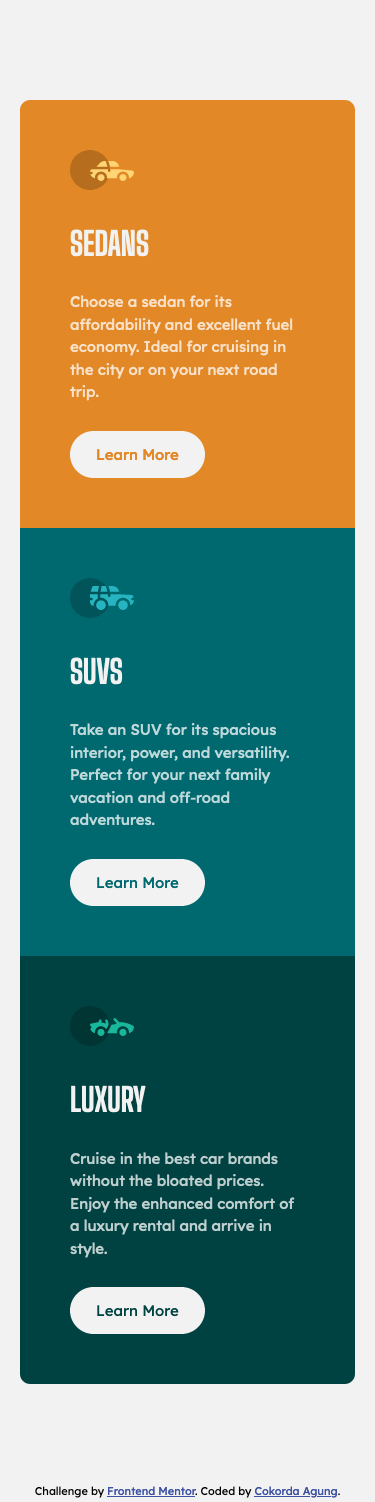
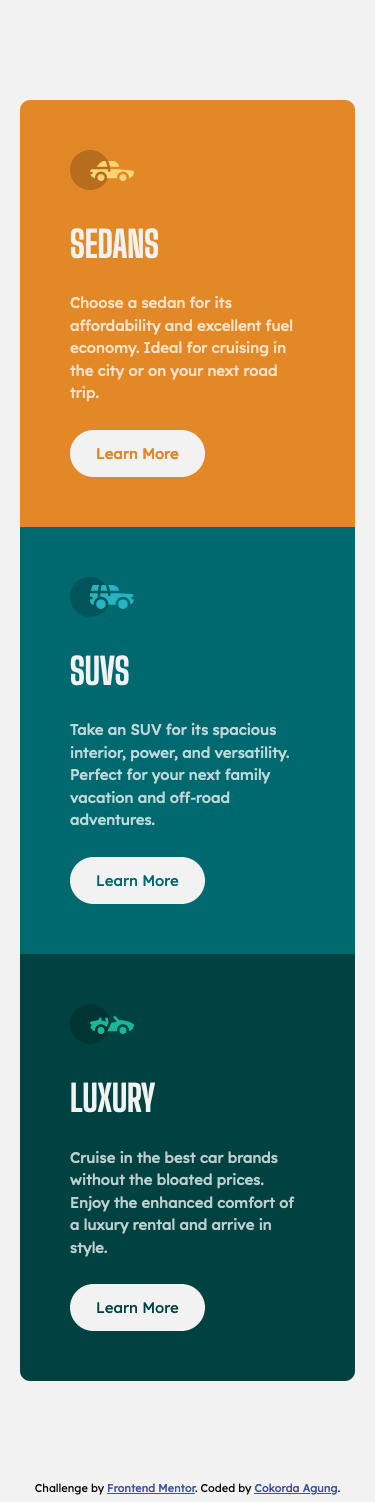
Desktop view finished

diff --git a/css/style.css b/css/style.css
@@ -1,1 +1,1 @@
-*{-webkit-box-sizing:border-box;box-sizing:border-box;padding:0;margin:0}body{background-color:#f2f2f2}.container{max-width:1000px;border-radius:15px;margin:100px 20px}.sedans{background-color:#e38826;border-radius:10px 10px 0 0;padding:50px}.sedans button{color:#e38826}.suvs{background-color:#006970;padding:50px}.suvs button{color:#006970}.luxury{background-color:#004241;border-radius:0 0 10px 10px;padding:50px}.luxury button{color:#004241}h1{color:#f2f2f2;text-transform:uppercase;font-family:"Big Shoulders Display",cursive;margin-top:28px}p{color:rgba(255,255,255,0.75);font-family:"Lexend Deca",sans-serif;font-size:15px;margin-top:28px;line-height:1.5}button{border:2px solid #f2f2f2;border-radius:50px;padding:12px 24px;text-decoration:none;background:#f2f2f2;font-family:"Lexend Deca",sans-serif;font-size:15px;margin-top:28px}button:hover{background-color:transparent;color:#f2f2f2}
+*{-webkit-box-sizing:border-box;box-sizing:border-box;padding:0;margin:0}body{background-color:#f2f2f2}.container{border-radius:15px;margin:100px 20px}.sedans{background-color:#e38826;border-radius:10px 10px 0 0;display:-webkit-box;display:-ms-flexbox;display:flex;-webkit-box-orient:vertical;-webkit-box-direction:normal;-ms-flex-direction:column;flex-direction:column;-webkit-box-pack:justify;-ms-flex-pack:justify;justify-content:space-between;padding:50px}.sedans button{color:#e38826}.suvs{background-color:#006970;display:-webkit-box;display:-ms-flexbox;display:flex;-webkit-box-orient:vertical;-webkit-box-direction:normal;-ms-flex-direction:column;flex-direction:column;-webkit-box-pack:justify;-ms-flex-pack:justify;justify-content:space-between;padding:50px}.suvs button{color:#006970}.luxury{background-color:#004241;border-radius:0 0 10px 10px;display:-webkit-box;display:-ms-flexbox;display:flex;-webkit-box-orient:vertical;-webkit-box-direction:normal;-ms-flex-direction:column;flex-direction:column;-webkit-box-pack:justify;-ms-flex-pack:justify;justify-content:space-between;padding:50px}.luxury button{color:#004241}h1{color:#f2f2f2;text-transform:uppercase;font-family:"Big Shoulders Display",cursive;margin-top:26px;font-size:36px}p{color:rgba(255,255,255,0.75);font-family:"Lexend Deca",sans-serif;font-size:15px;margin-top:26px;line-height:1.5}button{border:2px solid #f2f2f2;border-radius:50px;padding:12px 24px;text-decoration:none;background:#f2f2f2;font-family:"Lexend Deca",sans-serif;font-size:15px;margin-top:26px}button:hover{background-color:transparent;color:#f2f2f2}@media only screen and (min-width: 768px){.container{display:-webkit-box;display:-ms-flexbox;display:flex;max-width:920px;height:500px;margin:auto;margin-top:160px}.sedans{border-radius:10px 0 0 10px}.luxury{border-radius:0 10px 10px 0}p{line-height:1.8}}

diff --git a/index.html b/index.html
@@ -39,33 +39,45 @@
   <body>
     <div class="container">
       <div class="sedans">
-        <img src="./images/icon-sedans.svg" alt="Sedan icon" />
-        <h1>Sedans</h1>
-        <p>
-          Choose a sedan for its affordability and excellent fuel economy. Ideal
-          for cruising in the city or on your next road trip.
-        </p>
-        <button>Learn More</button>
+        <div>
+          <img src="./images/icon-sedans.svg" alt="Sedan icon" />
+          <h1>Sedans</h1>
+          <p>
+            Choose a sedan for its affordability and excellent fuel economy.
+            Ideal for cruising in the city or on your next road trip.
+          </p>
+        </div>
+        <div>
+          <button>Learn More</button>
+        </div>
       </div>
 
       <div class="suvs">
-        <img src="./images/icon-suvs.svg" alt="SUV icon" />
-        <h1>SUVs</h1>
-        <p>
-          Take an SUV for its spacious interior, power, and versatility. Perfect
-          for your next family vacation and off-road adventures.
-        </p>
-        <button>Learn More</button>
+        <div>
+          <img src="./images/icon-suvs.svg" alt="SUV icon" />
+          <h1>SUVs</h1>
+          <p>
+            Take an SUV for its spacious interior, power, and versatility.
+            Perfect for your next family vacation and off-road adventures.
+          </p>
+        </div>
+        <div>
+          <button>Learn More</button>
+        </div>
       </div>
 
       <div class="luxury">
-        <img src="./images/icon-luxury.svg" alt="Luxury icon" />
-        <h1>Luxury</h1>
-        <p>
-          Cruise in the best car brands without the bloated prices. Enjoy the
-          enhanced comfort of a luxury rental and arrive in style.
-        </p>
-        <button>Learn More</button>
+        <div>
+          <img src="./images/icon-luxury.svg" alt="Luxury icon" />
+          <h1>Luxury</h1>
+          <p>
+            Cruise in the best car brands without the bloated prices. Enjoy the
+            enhanced comfort of a luxury rental and arrive in style.
+          </p>
+        </div>
+        <div>
+          <button>Learn More</button>
+        </div>
       </div>
     </div>
 

diff --git a/scss/style.scss b/scss/style.scss
@@ -20,15 +20,21 @@ body {
 }
 
 .container {
-  max-width: 1000px;
   border-radius: 15px;
   margin: 100px 20px;
+}
+
+@mixin column-container {
+  display: flex;
+  flex-direction: column;
+  justify-content: space-between;
+  padding: 50px;
 }
 
 .sedans {
   background-color: $bright-orange;
   border-radius: 10px 10px 0 0;
-  padding: 50px;
+  @include column-container;
   button {
     color: $bright-orange;
   }
@@ -36,7 +42,7 @@ body {
 
 .suvs {
   background-color: $dark-cyan;
-  padding: 50px;
+  @include column-container;
   button {
     color: $dark-cyan;
   }
@@ -45,7 +51,7 @@ body {
 .luxury {
   background-color: $darker-cyan;
   border-radius: 0 0 10px 10px;
-  padding: 50px;
+  @include column-container;
   button {
     color: $darker-cyan;
   }
@@ -55,14 +61,15 @@ h1 {
   color: $light-gray;
   text-transform: uppercase;
   font-family: $big-shoulders-font;
-  margin-top: 28px;
+  margin-top: 26px;
+  font-size: 36px;
 }
 
 p {
   color: $transparent-white;
   font-family: $lexend-deca-font;
   font-size: $font-size;
-  margin-top: 28px;
+  margin-top: 26px;
   line-height: 1.5;
 }
 
@@ -74,10 +81,33 @@ button {
   background: $light-gray;
   font-family: $lexend-deca-font;
   font-size: $font-size;
-  margin-top: 28px;
+  margin-top: 26px;
 }
 
 button:hover {
   background-color: transparent;
   color: $light-gray;
+}
+
+@media only screen and (min-width: 768px) {
+  .container {
+    display: flex;
+    max-width: 920px;
+    height: 500px;
+    margin: auto {
+      top: 160px;
+    }
+  }
+
+  .sedans {
+    border-radius: 10px 0 0 10px;
+  }
+
+  .luxury {
+    border-radius: 0 10px 10px 0;
+  }
+
+  p {
+    line-height: 1.8;
+  }
 }

diff --git a/README.md b/README.md
@@ -1,92 +1,48 @@
-# Frontend Mentor - 3-column preview card component
+# Frontend Mentor - 3-column preview card component solution
 
-![Design preview for the 3-column preview card component coding challenge](./design/desktop-preview.jpg)
+This is a solution to the [3-column preview card component challenge on Frontend Mentor](https://www.frontendmentor.io/challenges/3column-preview-card-component-pH92eAR2-). Frontend Mentor challenges help you improve your coding skills by building realistic projects.
 
-## Welcome! 👋
+## Table of contents
 
-Thanks for checking out this front-end coding challenge.
+- [Overview](#overview)
+  - [The challenge](#the-challenge)
+  - [Screenshot](#screenshot)
+  - [Links](#links)
+- [My process](#my-process)
+  - [Built with](#built-with)
+  - [What I learned](#what-i-learned)
+- [Author](#author)
 
-[Frontend Mentor](https://www.frontendmentor.io) challenges help you improve your coding skills by building realistic projects.
+## Overview
 
-**To do this challenge, you need a basic understanding of HTML, CSS and JavaScript.**
+### The challenge
 
-## The challenge
-
-Your challenge is to build out this 3-column preview card component and get it looking as close to the design as possible.
-
-You can use any tools you like to help you complete the challenge. So if you've got something you'd like to practice, feel free to give it a go.
-
-Your users should be able to:
+Users should be able to:
 
 - View the optimal layout depending on their device's screen size
 - See hover states for interactive elements
 
-Want some support on the challenge? [Join our Slack community](https://www.frontendmentor.io/slack) and ask questions in the **#help** channel.
+### Screenshot
 
-## Where to find everything
+![Desktop Screenshot](./screenshot/desktopscreenshot.png)
+![Desktop Screenshot](./screenshot/mobilescreenshot.png)
 
-Your task is to build out the project to the designs inside the `/design` folder. You will find both a mobile and a desktop version of the design.
+### Links
 
-The designs are in JPG static format. Using JPGs will mean that you'll need to use your best judgment for styles such as `font-size`, `padding` and `margin`.
+- Solution URL: [Github page](https://ckrdi.github.io/three-column-card)
 
-If you would like the design files (we provide Sketch & Figma versions) to inspect the design in more detail, you can [subscribe as a PRO member](https://www.frontendmentor.io/pro).
+## My process
 
-You will find all the required assets in the `/images` folder. The assets are already optimized.
+### Built with
 
-There is also a `style-guide.md` file containing the information you'll need, such as color palette and fonts.
+- Sass Preprocessor
 
-## Building your project
+### What I learned
 
-Feel free to use any workflow that you feel comfortable with. Below is a suggested process, but do not feel like you need to follow these steps:
+I learned Sass.
 
-1. Initialize your project as a public repository on [GitHub](https://github.com/). Creating a repo will make it easier to share your code with the community if you need help. If you're not sure how to do this, [have a read-through of this Try Git resource](https://try.github.io/).
-2. Configure your repository to publish your code to a web address. This will also be useful if you need some help during a challenge as you can share the URL for your project with your repo URL. There are a number of ways to do this, and we provide some recommendations below.
-3. Look through the designs to start planning out how you'll tackle the project. This step is crucial to help you think ahead for CSS classes to create reusable styles.
-4. Before adding any styles, structure your content with HTML. Writing your HTML first can help focus your attention on creating well-structured content.
-5. Write out the base styles for your project, including general content styles, such as `font-family` and `font-size`.
-6. Start adding styles to the top of the page and work down. Only move on to the next section once you're happy you've completed the area you're working on.
+## Author
 
-## Deploying your project
-
-As mentioned above, there are many ways to host your project for free. Our recommend hosts are:
-
-- [GitHub Pages](https://pages.github.com/)
-- [Vercel](https://vercel.com/)
-- [Netlify](https://www.netlify.com/)
-
-You can host your site using one of these solutions or any of our other trusted providers. [Read more about our recommended and trusted hosts](https://medium.com/frontend-mentor/frontend-mentor-trusted-hosting-providers-bf000dfebe).
-
-## Create a custom `README.md`
-
-We strongly recommend overwriting this `README.md` with a custom one. We've provided a template inside the [`README-template.md`](./README-template.md) file in this starter code.
-
-The template provides a guide for what to add. A custom `README` will help you explain your project and reflect on your learnings. Please feel free to edit our template as much as you like.
-
-Once you've added your information to the template, delete this file and rename the `README-template.md` file to `README.md`. That will make it show up as your repository's README file.
-
-## Submitting your solution
-
-Submit your solution on the platform for the rest of the community to see. Follow our ["Complete guide to submitting solutions"](https://medium.com/frontend-mentor/a-complete-guide-to-submitting-solutions-on-frontend-mentor-ac6384162248) for tips on how to do this.
-
-Remember, if you're looking for feedback on your solution, be sure to ask questions when submitting it. The more specific and detailed you are with your questions, the higher the chance you'll get valuable feedback from the community.
-
-## Sharing your solution
-
-There are multiple places you can share your solution:
-
-1. Share your solution page in the **#finished-projects** channel of the [Slack community](https://www.frontendmentor.io/slack). 
-2. Tweet [@frontendmentor](https://twitter.com/frontendmentor) and mention **@frontendmentor**, including the repo and live URLs in the tweet. We'd love to take a look at what you've built and help share it around.
-3. Share your solution on other social channels like LinkedIn.
-4. Blog about your experience building your project. Writing about your workflow, technical choices, and talking through your code is a brilliant way to reinforce what you've learned. Great platforms to write on are [dev.to](https://dev.to/), [Hashnode](https://hashnode.com/), and [CodeNewbie](https://community.codenewbie.org/).
-
-We provide templates to help you share your solution once you've submitted it on the platform. Please do edit them and include specific questions when you're looking for feedback.
-
-The more specific you are with your questions the more likely it is that another member of the community will give you feedback.
-
-## Got feedback for us?
-
-We love receiving feedback! We're always looking to improve our challenges and our platform. So if you have anything you'd like to mention, please email hi[at]frontendmentor[dot]io.
-
-This challenge is completely free. Please share it with anyone who will find it useful for practice.
-
-**Have fun building!** 🚀
+- Website - [My Portfolio](https://ckrdiportfolio.netlify.app)
+- Frontend Mentor - [@ckrdi](https://www.frontendmentor.io/profile/ckrdi)
+- Twitter - [@ckrdi](https://www.twitter.com/ckrdi)
